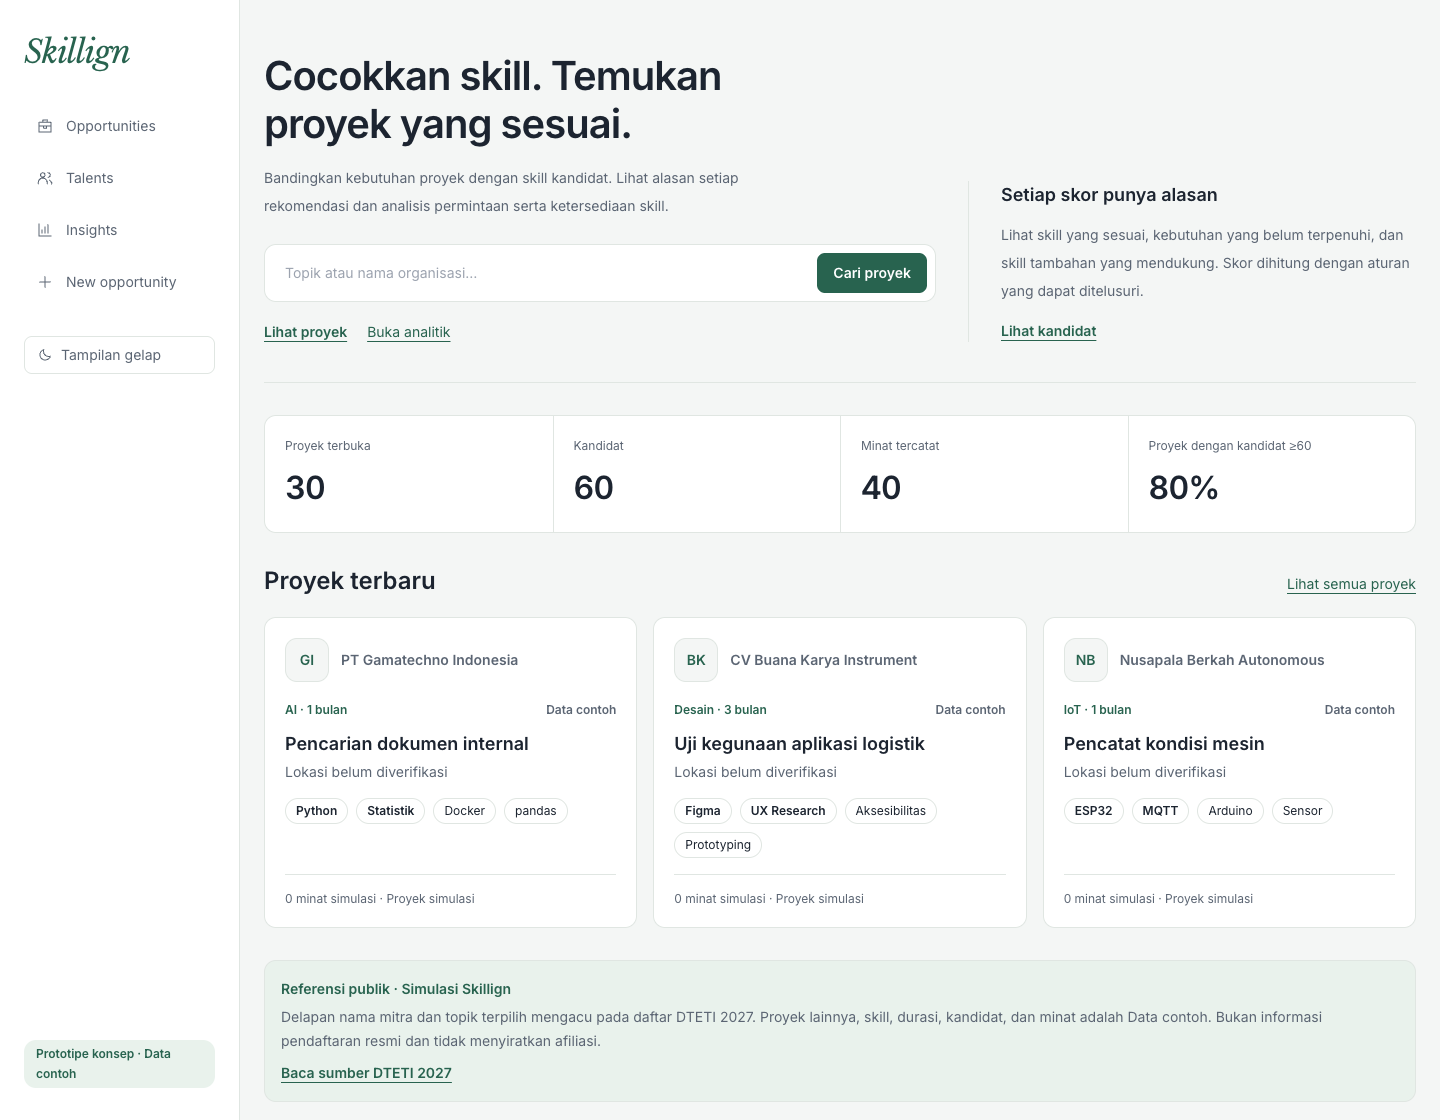
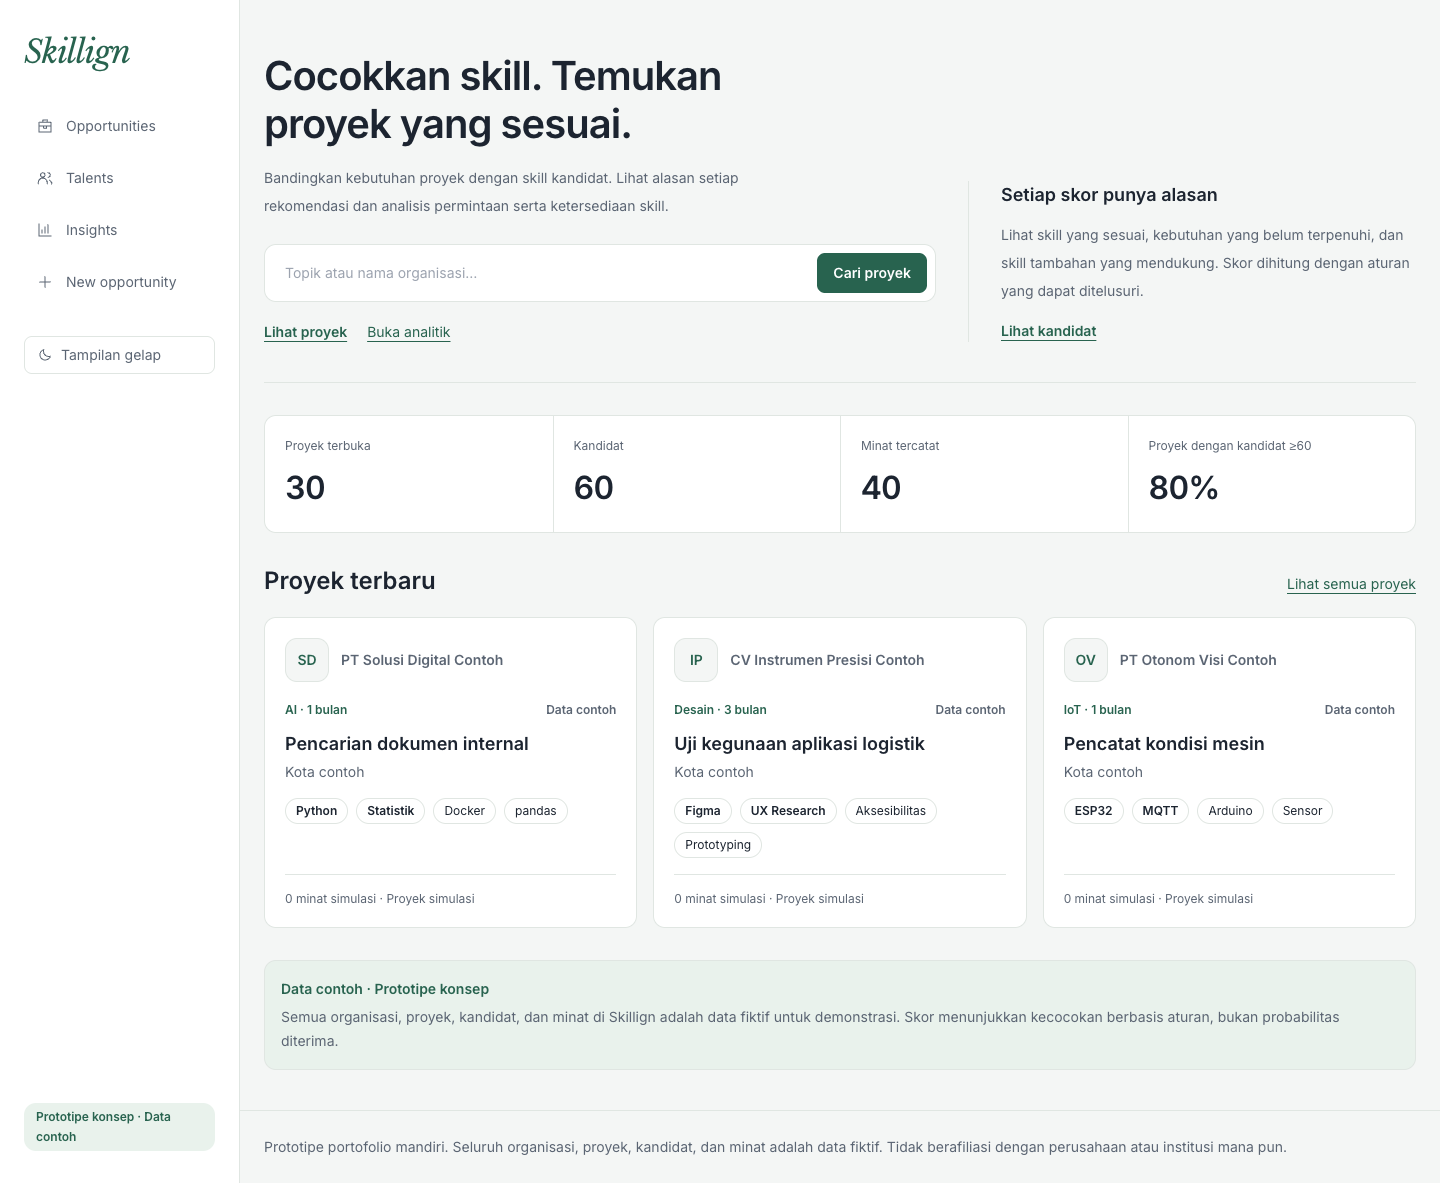
Perbarui README, ADR, dan screenshot
- README dan PROJECTBRIEF menyatakan seluruh organisasi fiktif dan
  menjelaskan label Dibuat pengunjung; jumlah test menjadi 91.
- ADR 001 diganti ADR 002 tentang organisasi fiktif.
- ARCHITECTURE dan DESIGN menyesuaikan migrasi 004 dan catatan data.
- Screenshot beranda, detail proyek, Insights, dan detail talenta
  diambil ulang dengan data baru.

diff --git a/README.md b/README.md
@@ -8,7 +8,7 @@ Skillign membantu mahasiswa, dosen, dan pengelola program menemukan kecocokan an
 
 [Mulai lokal](#menjalankan-lokal) · [Arsitektur](docs/ARCHITECTURE.md) · [Design system](docs/DESIGN.md) · [Pengujian](#pengujian)
 
-> **Prototipe konsep · Data contoh.** Nama delapan mitra dan judul topik terpilih merujuk sumber publik DTETI. Atribut pencocokan, profil kandidat, dan minat merupakan simulasi. Skillign tidak berafiliasi dengan organisasi yang ditampilkan dan bukan layanan pendaftaran magang resmi.
+> **Prototipe konsep · Data contoh.** Semua organisasi, proyek, kandidat, dan minat adalah data fiktif untuk demonstrasi. Skillign tidak berafiliasi dengan perusahaan atau institusi mana pun dan bukan layanan pendaftaran magang resmi.
 
 ![Beranda Skillign: pencarian proyek, ringkasan program, dan proyek terbaru](docs/screenshots/beranda.png)
 
@@ -24,7 +24,7 @@ Skillign membantu mahasiswa, dosen, dan pengelola program menemukan kecocokan an
 | **Talents** | Profil kandidat, level skill, lima rekomendasi proyek, dan skill yang disarankan untuk dikembangkan. |
 | **Explainable matching** | Lima kandidat teratas per proyek, skor 0–100, skill wajib yang sesuai/belum terpenuhi, serta skill tambahan yang mendukung. |
 | **Insights** | Permintaan skill, kesenjangan permintaan–ketersediaan, distribusi bidang, ringkasan program, dan corong kolaborasi. |
-| **New opportunity** | Form proyek dengan validasi bersama di klien/server dan rekomendasi langsung setelah penyimpanan. |
+| **New opportunity** | Form proyek dengan validasi bersama di klien/server dan rekomendasi langsung setelah penyimpanan. Proyek dari form diberi label **Dibuat pengunjung**. |
 
 Pengajuan minat dibatasi satu kali per kandidat/proyek melalui constraint database. Antarmuka menyediakan tema terang/gelap, tabel alternatif untuk grafik, serta state pemuatan, kosong, dan gagal.
 
@@ -108,9 +108,9 @@ Skill di luar kebutuhan tidak menurunkan skor. Urutan rekomendasi ditentukan ole
 
 ## Data & analitik
 
-Seed tetap menghasilkan **40 skill, 12 organisasi, 30 proyek, 60 profil kandidat, dan 40 minat**. Delapan nama mitra dan delapan judul topik merujuk [daftar mitra DTETI 2027](https://sarjana.jteti.ugm.ac.id/akademik/penjelasan-aktivitas-akademik/daftar-mitra-magang-dteti-2027/); empat kampus dan profil kandidat bersifat fiktif. Dua puluh dua judul proyek lainnya dibuat untuk simulasi.
+Seed tetap menghasilkan **40 skill, 12 organisasi fiktif, 30 proyek, 60 profil kandidat, dan 40 minat**. Sektor dan jenis topik meniru pola program magang industri di Indonesia; semua nama dan atribut adalah simulasi. Nama organisasi berakhiran "Contoh" agar tidak tertukar dengan perusahaan sungguhan. Lihat [keputusan data](docs/decisions/002_organisasi-fiktif.md).
 
-Skill wajib/tambahan, bidang, deskripsi, durasi, status, dan minat tidak mewakili persyaratan resmi mitra. Lokasi organisasi publik belum diverifikasi. Dataset ini merupakan snapshot terpilih, bukan keseluruhan daftar atau sinkronisasi otomatis. [Kebijakan sumber data](docs/decisions/001_referensi-publik-dteti.md).
+Proyek yang dibuat pengunjung lewat form disimpan dengan `dibuat_pengunjung = TRUE` dan ditampilkan dengan label **Dibuat pengunjung**, sehingga dapat dibedakan dari proyek seed.
 
 Analitik memakai enam view: `v_permintaan_skill`, `v_ketersediaan_skill`, `v_kesenjangan_skill`, `v_tantangan_per_bidang`, `v_minat_per_tantangan`, dan `v_ringkasan_program`. Rasio kesenjangan bernilai `NULL` ketika ketersediaan nol. Kelompok “punya kandidat” dan “punya minat” pada corong dihitung mandiri, sehingga tidak menyatakan konversi berurutan.
 
@@ -122,11 +122,11 @@ npm run lint
 npm run build
 ```
 
-Baseline terakhir: **90 pengujian lolos**, mencakup rumus matching, validasi, migrasi/seed, integritas SQL, API, dan interaksi antarmuka. Pengujian tidak memerlukan akun Neon. Cakupan mencakup matching, validasi form, integritas database, sumber data publik, pencarian/filter URL, pengajuan minat, dan tema antarmuka.
+Baseline terakhir: **91 pengujian lolos**, mencakup rumus matching, validasi, migrasi/seed, integritas SQL, API, dan interaksi antarmuka. Pengujian tidak memerlukan akun Neon. Cakupan mencakup matching, validasi form, integritas database, data organisasi fiktif, label proyek buatan pengunjung, pencarian/filter URL, pengajuan minat, dan tema antarmuka.
 
 ## Status & batasan
 
-Fitur inti tersedia di demo publik dan lokal. Autentikasi, kontrol peran, edit/hapus data, dan notifikasi berada di luar cakupan MVP. Data contoh yang ditulis pada demo publik dapat dilihat pengunjung lain.
+Fitur inti tersedia di demo publik dan lokal. Autentikasi, kontrol peran, edit/hapus data, dan notifikasi berada di luar cakupan MVP. Data contoh yang ditulis pada demo publik dapat dilihat pengunjung lain dan diberi label **Dibuat pengunjung**. Saran pengembangan: reset seed terjadwal agar demo publik kembali ke data awal secara berkala.
 
 Deployment terverifikasi pada 8 November 2026: semua endpoint API membalas data dari Neon, refresh langsung pada URL halaman tidak menghasilkan 404, dan tampilan diperiksa pada desktop serta mobile. Fungsi API dijalankan di region Singapura agar dekat dengan database. Halaman Insights tampil lengkap dalam sekitar 0,5 detik pada kunjungan berikutnya dan 1,8 detik pada kunjungan pertama saat fungsi masih dingin.
 

diff --git a/docs/decisions/002_organisasi-fiktif.md b/docs/decisions/002_organisasi-fiktif.md
@@ -1,0 +1,27 @@
+# ADR 002 — Organisasi fiktif untuk data contoh
+
+**Status:** diterapkan · 8 November 2026
+
+## Konteks
+
+Versi awal data contoh memakai delapan nama organisasi dan judul topik dari daftar publik sebuah program magang kampus. Atribut lain (skill, bidang, durasi, status, kandidat, minat) sudah simulasi dan berlabel "Data contoh", serta ada pernyataan tidak berafiliasi.
+
+## Keputusan
+
+- Semua organisasi di seed fiktif dan berakhiran "Contoh": delapan organisasi industri dan empat kampus.
+- Sektor dan jenis topik organisasi industri dipertahankan (akuakultur, lidar dan komunikasi, drone, visi komputer, perangkat lunak dan AI, data, transportasi) agar data tetap realistis.
+- Tantangan yang dibuat lewat form demo publik disimpan dengan `dibuat_pengunjung = TRUE` dan ditampilkan dengan label "Dibuat pengunjung".
+- Tidak ada lagi tautan atau rujukan ke sumber eksternal di kode, UI, maupun dokumen.
+
+## Alasan
+
+1. Atribut simulasi yang menempel pada nama organisasi sungguhan bisa dibaca sebagai informasi nyata, meskipun ada disclaimer.
+2. Form publik memungkinkan pengunjung memasang proyek atas nama organisasi sungguhan.
+3. Portofolio ini dinilai oleh pihak yang namanya bisa muncul di data; memakai nama mereka tanpa izin tidak sebanding manfaatnya.
+4. Brief portofolio sendiri memutuskan untuk tidak menyebut nama mitra.
+
+## Konsekuensi
+
+- Angka analitik tidak berubah: urutan organisasi dan indeks topik dipertahankan, sehingga seed tetap deterministik dan respons `/api/analitik` identik dengan versi sebelumnya.
+- Migrasi 004 menghapus kolom sumber eksternal yang ditambahkan migrasi 003 dan menambah `tantangan.dibuat_pengunjung`. Migrasi 001–003 tidak diubah.
+- Database yang sudah berjalan perlu menjalankan migrasi 004 dan seed ulang agar nama lama hilang.

diff --git a/PROJECTBRIEF.md b/PROJECTBRIEF.md
@@ -15,7 +15,7 @@ Dokumen ini adalah PRD (product requirements document). Rancangan teknis ada di 
 | **Pemilik** | Naufal Dzaky — Teknologi Informasi UGM |
 | **Tujuan utama** | Portofolio pengembangan aplikasi web dan analitik data |
 | **Target waktu MVP** | 1 hari kerja (lihat ROADMAP) |
-| **Status data** | **Data contoh**. Nama/topik terpilih memakai referensi publik DTETI; atribut pencocokan, talenta, dan minat disimulasikan. |
+| **Status data** | **Data contoh**. Seluruh organisasi, proyek, talenta, dan minat fiktif; sektor dan jenis topik meniru program magang industri. |
 
 ### Kenapa proyek ini ada
 
@@ -24,7 +24,7 @@ Proyek ini menunjukkan dua kemampuan sekaligus:
 1. **Pengembangan aplikasi web** — alur lengkap dari database, API, sampai antarmuka yang di-deploy.
 2. **Analitik data** — halaman analitik yang menghitung permintaan skill, ketersediaan skill, dan kesenjangannya dengan SQL.
 
-> **Catatan kejujuran.** Skillign adalah prototipe konsep buatan sendiri. Tidak berafiliasi dengan perusahaan atau institusi mana pun. Delapan nama mitra dan judul topik terpilih mengacu pada sumber publik DTETI 2027 atas permintaan pemilik. Nama orang dan kampus contoh tetap fiktif; deskripsi, bidang, skill, durasi, status, serta minat merupakan simulasi berlabel "Data contoh". Sumber ditampilkan di UI; ini bukan informasi pendaftaran resmi.
+> **Catatan kejujuran.** Skillign adalah prototipe konsep buatan sendiri. Tidak berafiliasi dengan perusahaan atau institusi mana pun. Semua nama organisasi, proyek, orang, dan kampus fiktif dan berlabel "Data contoh"; deskripsi, bidang, skill, durasi, status, serta minat merupakan simulasi. Proyek yang dibuat pengunjung demo diberi label "Dibuat pengunjung". Ini bukan informasi pendaftaran resmi.
 
 ---
 

diff --git a/docs/ARCHITECTURE.md b/docs/ARCHITECTURE.md
@@ -253,11 +253,11 @@ Implementasi menambahkan `v_ringkasan_program` di migrasi 002 untuk memastikan t
 
 - Seed acak tetap (mis. `mulberry32(2027)`) agar hasil selalu sama.
 - 40 skill nyata (React, Next.js, TypeScript, SQL, Python, pandas, Power BI, Figma, Arduino, ROS, Docker, dll.).
-- 12 organisasi (8 nama mitra publik DTETI, 4 kampus fiktif), 30 tantangan, 60 talenta, ±40 minat.
+- 12 organisasi fiktif (8 industri, 4 kampus, semua berakhiran "Contoh"), 30 tantangan, 60 talenta, ±40 minat.
 - Distribusi sengaja **tidak seimbang** (mis. permintaan React/SQL tinggi, ketersediaan rendah) supaya grafik kesenjangan bercerita.
 - Semua baris `data_contoh = TRUE`; nama orang fiktif.
 
-Migrasi 003 menambahkan `sumber_url` pada organisasi dan tantangan. Delapan topik terpilih memiliki URL sumber; atribut pencocokan tetap simulasi. Detail keputusan ada di `decisions/001_referensi-publik-dteti.md`. API pencarian mendukung `q` judul/organisasi yang dapat digabung dengan filter; pencarian tidak peka kapital dan memakai parameter SQL.
+Migrasi 003 pernah menambahkan kolom sumber eksternal; migrasi 004 menghapusnya dan menambah `tantangan.dibuat_pengunjung` (default `FALSE`, `TRUE` untuk tantangan dari `POST /api/tantangan`). Seluruh organisasi seed fiktif dan didefinisikan di `src/domain/organisasiContoh.ts`; urutan dan indeksnya menjaga seed tetap deterministik. Detail keputusan ada di `decisions/002_organisasi-fiktif.md`. API pencarian mendukung `q` judul/organisasi yang dapat digabung dengan filter; pencarian tidak peka kapital dan memakai parameter SQL.
 
 ## 9. Konfigurasi & lingkungan
 

diff --git a/docs/DESIGN.md b/docs/DESIGN.md
@@ -91,7 +91,7 @@ Tiga titik: ●○○ dasar, ●●○ menengah, ●●● mahir. Ada tooltip te
 ## 6. Tata letak halaman
 
 ### Beranda `/`
-Pembuka dua kolom pada layar lebar: judul/pencarian di kiri dan penjelasan kecocokan di kanan. Empat ringkasan berada dalam satu panel terbagi, diikuti tiga tantangan terbaru serta penjelasan sumber publik. Navigasi Lihat tantangan/Buka analitik tetap tersedia.
+Pembuka dua kolom pada layar lebar: judul/pencarian di kiri dan penjelasan kecocokan di kanan. Empat ringkasan berada dalam satu panel terbagi, diikuti tiga tantangan terbaru serta catatan data contoh. Navigasi Lihat tantangan/Buka analitik tetap tersedia.
 
 ### Tantangan `/tantangan`
 Pencarian judul/organisasi tersimpan sebagai `q` di URL. Filter di sisi kiri, hasil di kanan. Kartu dua kolom mulai 1280 px, satu kolom di bawahnya. Pada mobile panel filter dapat dibuka lewat tombol. Query, bidang, dan skill terpilih tampil sebagai chip yang dapat dihapus satu per satu tanpa menghapus filter lainnya.
